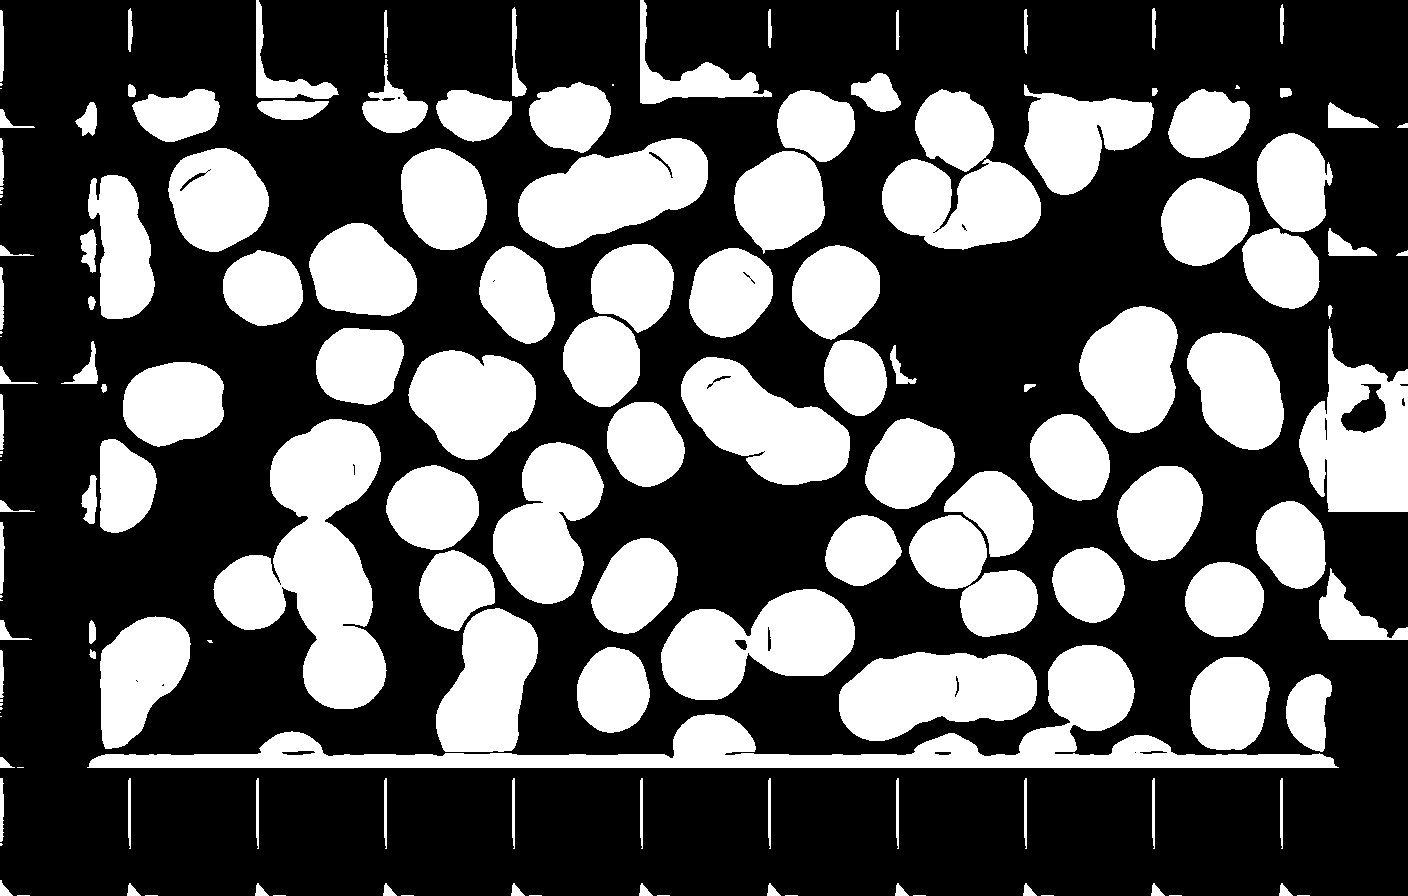
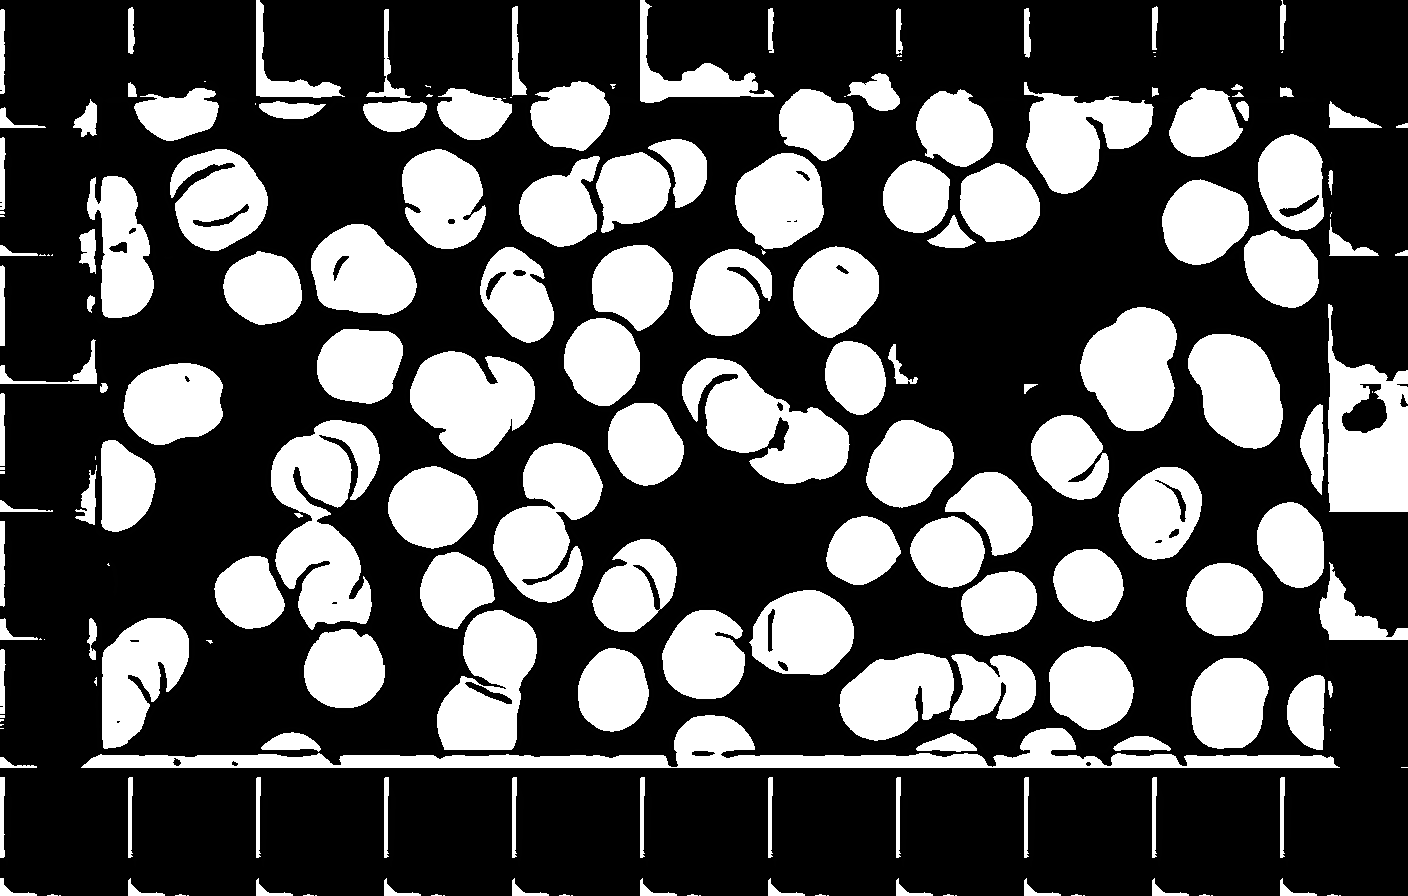
Updated thresholded edge - mask!

diff --git a/src/run.py b/src/run.py
@@ -4,6 +4,7 @@ import cv2
 import numpy as np
 import tensorflow as tf
 import matplotlib.pyplot as plt
+from scipy import ndimage
 
 # custom imports
 import data
@@ -239,16 +240,24 @@ def threshold(img='edge.png'):
         print('Image does not exist!')
         return
 
-    # getting the input image
-    image = cv2.imread(f'output/{img}')
+    # substract if img is edge_mask
+    if img == 'edge_mask.png':
+        mask = cv2.imread(f'output/threshold_mask.png')
+        edge = cv2.imread(f'output/threshold_edge.png')
 
-    # convert to grayscale and apply otsu's thresholding
-    image = cv2.cvtColor(image, cv2.COLOR_BGR2GRAY)
-    otsu_threshold, image = cv2.threshold(image, 0, 255, cv2.THRESH_BINARY + cv2.THRESH_OTSU,)
+        # substract mask - edge
+        image = mask - edge
+    else:
+        # getting the input image
+        image = cv2.imread(f'output/{img}')
+
+        # convert to grayscale and apply otsu's thresholding
+        image = cv2.cvtColor(image, cv2.COLOR_BGR2GRAY)
+        otsu_threshold, image = cv2.threshold(image, 0, 255, cv2.THRESH_OTSU,)
 
     # save the resulting thresholded image
     plt.imsave(f'output/threshold_{img}', image, cmap='gray')
-
+    
 
 # count how many cells from the predicted edges
 def hough_transform(img='edge.png'):
@@ -333,14 +342,17 @@ def distance_transform(img='edge.png'):
     # convert to grayscale
     img = cv2.cvtColor(img, cv2.COLOR_BGR2GRAY)
 
-    # transorm rgb channels
-    b = cv2.distanceTransform(img, distanceType=cv2.DIST_L2, maskSize=0)
-    g = cv2.distanceTransform(img, distanceType=cv2.DIST_L1, maskSize=0)
-    r = cv2.distanceTransform(img, distanceType=cv2.DIST_C, maskSize=0)
+    img = ndimage.distance_transform_edt(img)
+    # img = ndimage.binary_dilation(img)
+
+    # # transform rgb channels
+    # b = cv2.distanceTransform(img, distanceType=cv2.DIST_L2, maskSize=0)
+    # g = cv2.distanceTransform(img, distanceType=cv2.DIST_L1, maskSize=0)
+    # r = cv2.distanceTransform(img, distanceType=cv2.DIST_C, maskSize=0)
     
-    # merge the transformed channels back to an image
-    img = cv2.merge((b, g, r))
-    img = normalize(img)
+    # # merge the transformed channels back to an image
+    # img = cv2.merge((b, g, r))
+    # img = normalize(img)
 
     # saving image after Component Labeling
     plt.imsave('output/distance_transform.png', img)
@@ -350,10 +362,10 @@ def distance_transform(img='edge.png'):
 if __name__ == '__main__':
     # train('mse_unsupervised')
     # evaluate(model_name='mse')
-    predict(model_name='mse')
-    threshold(img='mask.png')
-    threshold(img='edge.png')
-    threshold(img='edge_mask.png')
-    distance_transform(img='threshold_edge_mask.png')
-    hough_transform(img='edge.png')
-    component_labeling(img='edge_mask.png')
+    # predict(model_name='mse')
+    threshold('mask.png')
+    threshold('edge.png')
+    threshold('edge_mask.png')
+    distance_transform('threshold_edge_mask.png')
+    hough_transform('edge.png')
+    component_labeling('distance_transform.png')
